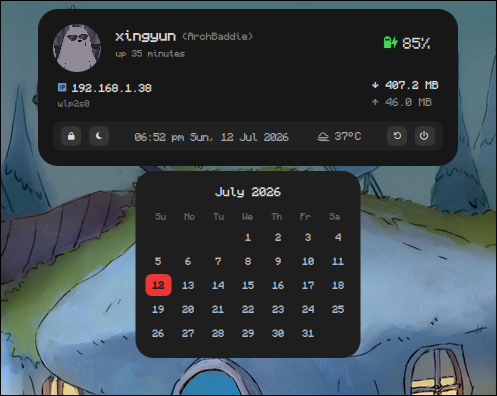
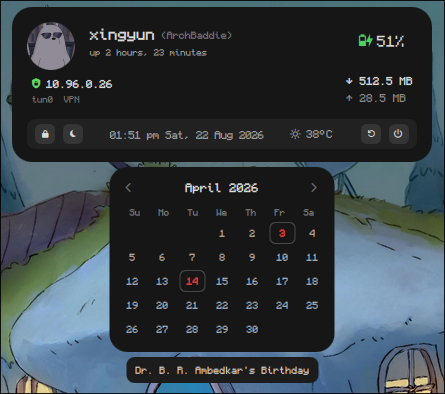
Update README and 6th screenshot fix a backend build bug in install.sh

diff --git a/README.md b/README.md
@@ -2,13 +2,13 @@
 
 <div align="center">
 
-[![ChillPill-Shell 0.6.0](https://img.shields.io/badge/CP--Shell-0.6.0-blue.svg)](https://github.com/LUCKYS1NGHH/ChillPill-Shell)
+[![ChillPill-Shell 0.7.0](https://img.shields.io/badge/CP--Shell-0.7.0-blue.svg)](https://github.com/LUCKYS1NGHH/ChillPill-Shell)
 [![GitHub Stars](https://img.shields.io/github/stars/LUCKYS1NGHH/ChillPill-Shell?style=social)](https://github.com/LUCKYS1NGHH/ChillPill-Shell/stargazers)
 [![Quickshell 0.3.0+](https://img.shields.io/badge/Quickshell-0.3.0+-green.svg)](https://github.com/quickshell-mirror/quickshell)
 [![License: GPL v3](https://img.shields.io/badge/License-GPLv3-orange.svg)](https://www.gnu.org/licenses/gpl-3.0)
 
 ChillPill-Shell is a **lightweight**, feature rich dynamic pill bar for Hyprland, built with **Quickshell**.
-It's aimed squarely at users running without a dedicated GPU (like me) — Eye candy for **No-GPU users**.
+It's aimed squarely at users running without a dedicated GPU (like me) — Eye candy for **Integrated-GPU users**.
 
 It runs as a **standalone app**: launch it from your terminal or app launcher when you want it, rather than having it baked
 into your session at all times. It's not bound to any dotfiles.
@@ -120,6 +120,8 @@ into your session at all times. It's not bound to any dotfiles.
 - **Control Center**               - Media player, buttons (WiFi, Silent Notifs, Timer, Bluetooth), volume and brightness sliders, notification stack
 - **Cliphist (Clipboard History)** - Search, clipboard image preview, item index status, `Delete` key to delete any item, `Tab` to full preview the clipboard image
 - **Mini Dashboard**               - Profile image, username, hostname, uptime, battery, basic network info, today's bandwidth usage, datetime, weather, calendar, power buttons (lock, sleep, shutdown, reboot)
+  - **Calendar Popup**             - Previous/Next month buttons, event dates
+  - **Weather Popup**              - Feels, humidity, wind, sunrise and sunset, upcoming 2 days weather forecast, manual refresh button
 - **DBus Notification**            - App icon (optional), summary, body (YES! you can ditch swaync/dunst entirely now)
 - **OSD**                          - Battery, volume, brightness, timer
 - **Wallpaper switcher**           - A wallpaper switcher
@@ -188,6 +190,7 @@ into your session at all times. It's not bound to any dotfiles.
 | `wsCloseOnWallpaperSet` | Close wallpaper switcher after apply wallpaper | `true` |
 | `wsAnimation` | Wallpaper switcher open animation | `true` |
 | `deleteCliphistImgCache` | Delete cached image file on clipboard entry removal, disabled keeps it on disk | `true` |
+| `country` | Country for calendar events. accepts country name (India) or ISO 3166-1 alpha-2 (IN) but recommended is country code | `IN` |
 
 <details>
 <summary>Raw config example</summary>
@@ -218,7 +221,8 @@ into your session at all times. It's not bound to any dotfiles.
   "wallpapersDir": "~/Pictures/wallpapers",
   "wsCloseOnWallpaperSet": true,
   "wsAnimation": true,
-  "deleteCliphistImgCache": true
+  "deleteCliphistImgCache": true,
+  "country": "IN"
 }
 ```
 
@@ -226,9 +230,9 @@ into your session at all times. It's not bound to any dotfiles.
 
 ## Dependencies
 > [!NOTE]
-> It's an initial release, tested only on **Arch Linux** + **Hyprland**. other setups unsupported for now.
+> Currently it's tested only on **Arch Linux** + **Hyprland**. other setups unsupported for now.
 > Packages below are Arch's; find the equivalent for your distro.
-> `brightnessctl` and `cliphist` are likely already installed on most systems.
+> common utilities like `brightnessctl` and `blueman` are likely already installed on most systems.
 
 - [cliphist](https://github.com/sentriz/cliphist)
 - [nusgmon](https://github.com/LUCKYS1NGHH/nusgmon) (AUR package; non-Arch users can use the setup script instead)
@@ -242,9 +246,11 @@ into your session at all times. It's not bound to any dotfiles.
 
 > [!TIP]
 > `install.sh` auto-installs all of the above for Arch users, **except** these optional packages:
-> - Monocraft Font (`ttf-monocraft-git` / `ttf-monocraft-nerd` on AUR)
-> - JetBrainsMono Nerd Font (`ttf-jetbrains-mono-nerd` on Arch)
-> - `qt6-imageformats` (on Arch) more image format support (e.g. WEBP) for wallpaper previews
+
+- Monocraft Font (`ttf-monocraft-git` / `ttf-monocraft-nerd` on AUR)
+- JetBrainsMono Nerd Font (`ttf-jetbrains-mono-nerd` on Arch)
+- `qt6-imageformats` (on Arch) more image format support (e.g. WEBP) for wallpaper previews
+- `holidays` (Python lib) event dates in calendar; `install.sh` prompts to install this one
 
 ## Install
 
@@ -271,7 +277,7 @@ sudo ./install.sh
 
 ---
 
-#### Arch
+#### AUR
 ```
 paru -R chillpill-shell
 ```
